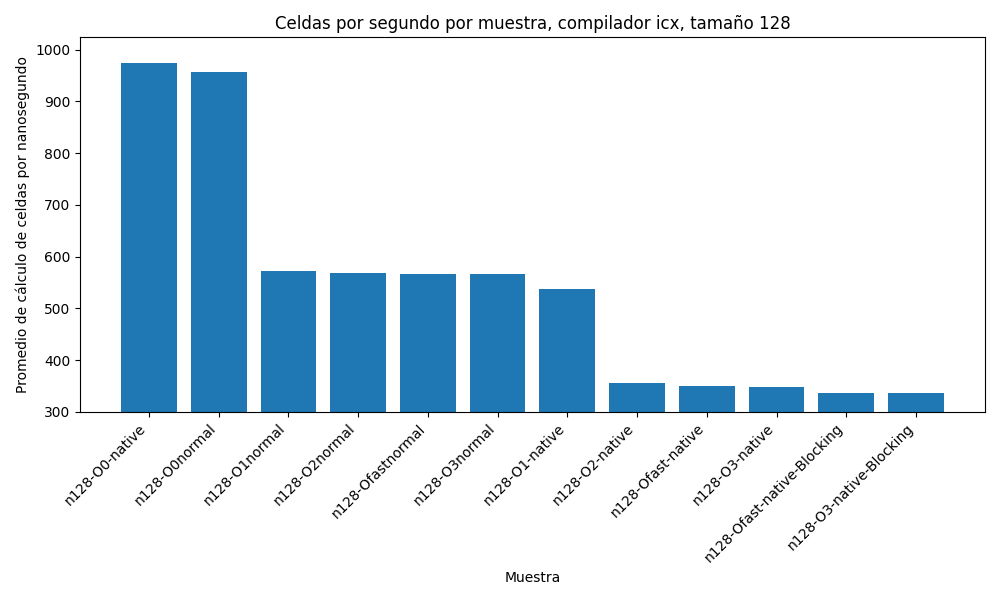
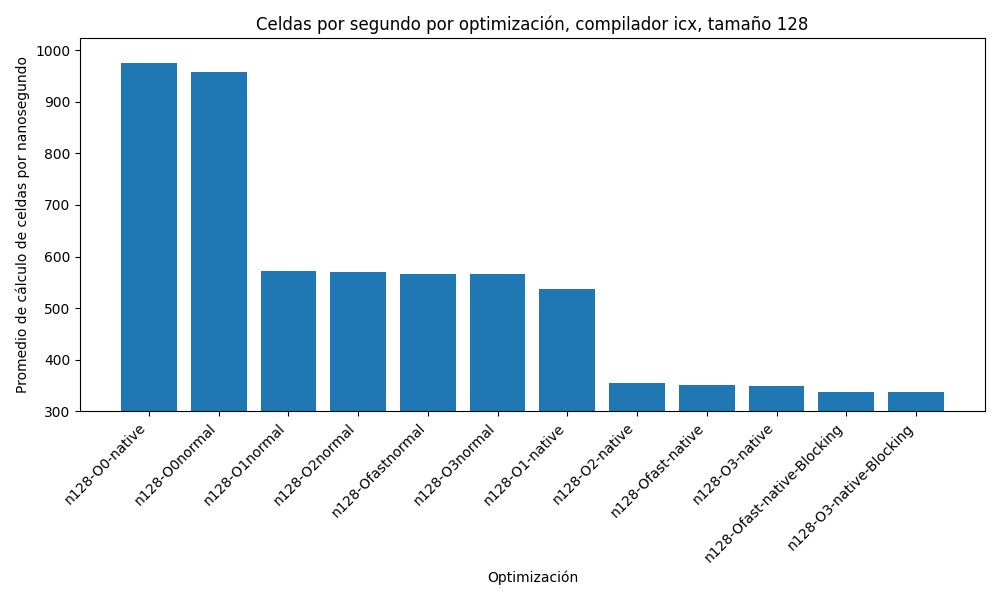
Muestras y gráficos

diff --git a/tp1/graphics/graphic_flops.py b/tp1/graphics/graphic_flops.py
@@ -5,15 +5,21 @@ import sys
 
 df = pd.read_csv(f"{sys.argv[1]}/{sys.argv[2]}/Flopsn{sys.argv[3]}.csv", header=None)  
 
-df['result'] = df[0] / df[1]
+print(f"procesando archivo {sys.argv[1]}/{sys.argv[2]}/Flopsn{sys.argv[3]}.csv")
 
-labels = ['0', '1', '2', '3', 'native']
+df['result'] = df[1] / df[2]
 
-plt.bar(labels, df['result'][:len(labels)])  
-plt.xlabel('Muestra')
+labels = df[0].str.strip()  # Get labels from first column and remove whitespace
+
+plt.figure(figsize=(10, 6))  # Set figure size
+plt.bar(labels, df['result'])  
+plt.xlabel('Optimización')
 plt.ylabel('FLOPS')
-plt.title(f"FLOPS por muestra, compilador {sys.argv[2]}, tamaño {sys.argv[3]}")
+plt.title(f"FLOPS por optimización, compilador {sys.argv[2]}, tamaño {sys.argv[3]}")
+
+plt.xticks(rotation=45, ha='right')  # Rotate labels for better readability
+plt.tight_layout()  # Adjust layout to prevent label cutoff
 
 # plt.show()
 
-plt.savefig(f"flops {sys.argv[1].replace('../', '')} {sys.argv[2]} {sys.argv[3]}.png") 
+plt.savefig(f"flops {sys.argv[1].replace('../', '')} {sys.argv[2]} {sys.argv[3]}.png")

diff --git a/tp1/graphics/graphic_n.py b/tp1/graphics/graphic_n.py
@@ -19,9 +19,9 @@ means_df_sorted['File Name'] = means_df_sorted['File Name'].str.replace(f"{sys.a
 
 plt.figure(figsize=(10, 6))  
 plt.bar(means_df_sorted['File Name'], means_df_sorted['Mean'])
-plt.xlabel(f"Muestra")
+plt.xlabel(f"Optimización")
 plt.ylabel("Promedio de cálculo de celdas por nanosegundo")
-plt.title(f"Celdas por segundo por muestra, compilador {sys.argv[2]}, tamaño {sys.argv[3]}")
+plt.title(f"Celdas por segundo por optimización, compilador {sys.argv[2]}, tamaño {sys.argv[3]}")
 plt.xticks(rotation=45, ha="right")  
 plt.tight_layout()  
 

diff --git a/tp1/graphics/graphic_var.py b/tp1/graphics/graphic_var.py
@@ -19,9 +19,9 @@ means_df_sorted['File Name'] = means_df_sorted['File Name'].str.replace(f"{sys.a
 
 plt.figure(figsize=(10, 6))  
 plt.bar(means_df_sorted['File Name'], means_df_sorted['Mean'])
-plt.xlabel(f"Muestra")
+plt.xlabel(f"Optimización")
 plt.ylabel("Varianza")
-plt.title(f"Varianza de celdas por segundo por muestra, compilador {sys.argv[2]}, tamaño {sys.argv[3]}")
+plt.title(f"Varianza de celdas por segundo por optimización, compilador {sys.argv[2]}, tamaño {sys.argv[3]}")
 plt.xticks(rotation=45, ha="right")  
 plt.tight_layout()  
 
